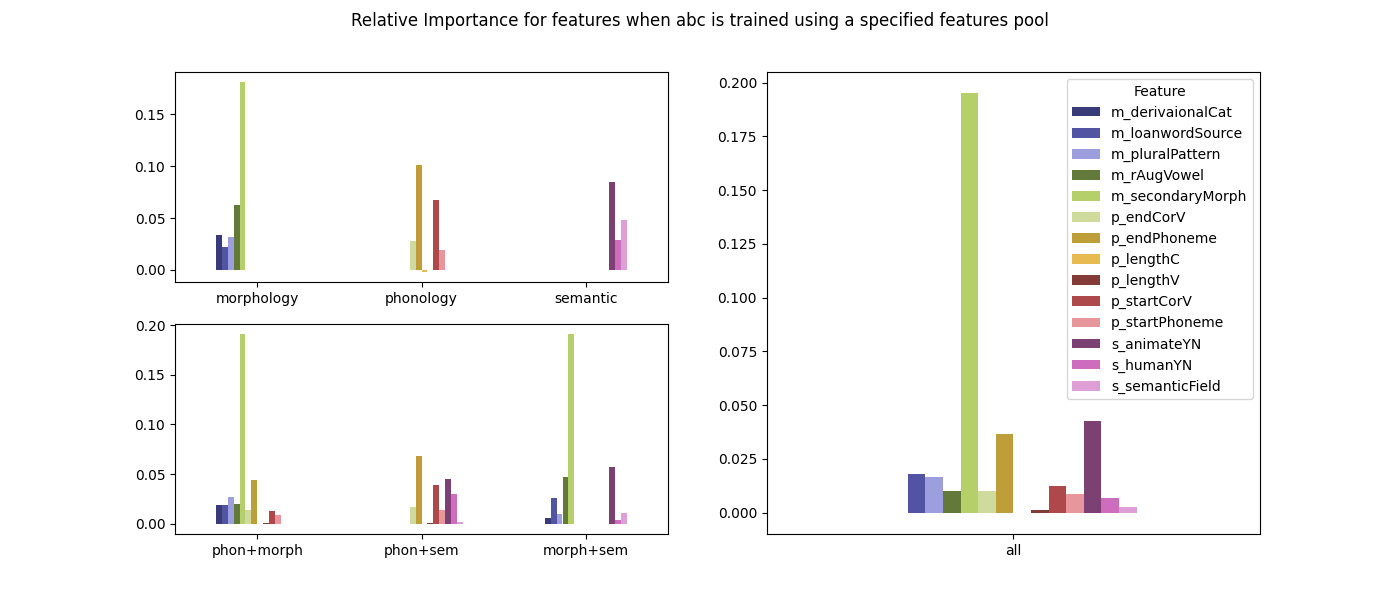
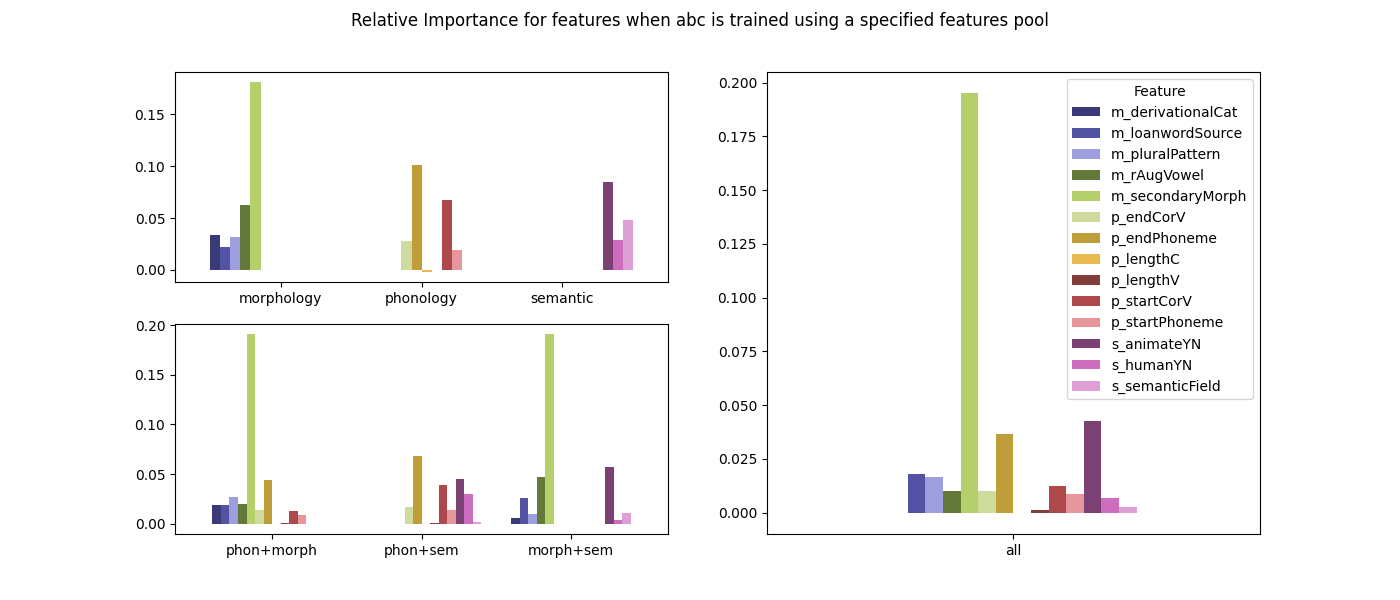
ok, last commit

diff --git a/Code/gen_plot_eval.py b/Code/gen_plot_eval.py
@@ -7,7 +7,7 @@ different models on the different datasets. The plots generated using this are:
 import pandas as pd
 import matplotlib.pyplot as plt
 
-results = pd.read_csv('Results/supp_cv_nonhp.csv', index_col=0)
+results = pd.read_csv('Results/eval_cv_hp.csv', index_col=0)
 
 results_gr = pd.pivot_table(results, values='roc-auc', index='Features', columns='Model', sort=False)
 ax = results_gr.plot(kind='bar', rot=0, colormap='tab20b')
@@ -19,4 +19,4 @@ ax.set_xlabel("Sets of Features used for Prediction")
 ax.set_ylabel("ROC-AUC Score")
 ax.legend(ncol=len(results_gr.columns))
 ax.set_yticks([0.1, 0.2, 0.3, 0.4, 0.5, 0.6, 0.7, 0.8, 0.9, 1.0])
-plt.savefig("Plots/plot_supp_nonhp_rocauc.png")
+plt.savefig("Plots/plot_cv_hp_rocauc.png")

diff --git a/Code/gen_plot_rel_imp.py b/Code/gen_plot_rel_imp.py
@@ -20,10 +20,10 @@ for model in models:
     ax = fig.add_subplot(2, 2, 1)
     ax2 = fig.add_subplot(1, 2, 2)
     ax1 = fig.add_subplot(2, 2, 3)
-    sub_selection.plot(ax=ax, kind='bar', rot=0, colormap='tab20b')
+    sub_selection.plot(ax=ax, kind='bar', rot=0, width=1, colormap='tab20b')
     ax.get_legend().remove()
     ax.set_xlabel(xlabel='')
-    sub_selection1.plot(ax=ax1, kind='bar', rot=0, colormap='tab20b')
+    sub_selection1.plot(ax=ax1, kind='bar', rot=0, width=0.8, colormap='tab20b')
     ax1.get_legend().remove()
     ax1.set_xlabel(xlabel='')
     sub_selection2.plot(ax=ax2, kind='bar', rot=0, colormap='tab20b')
